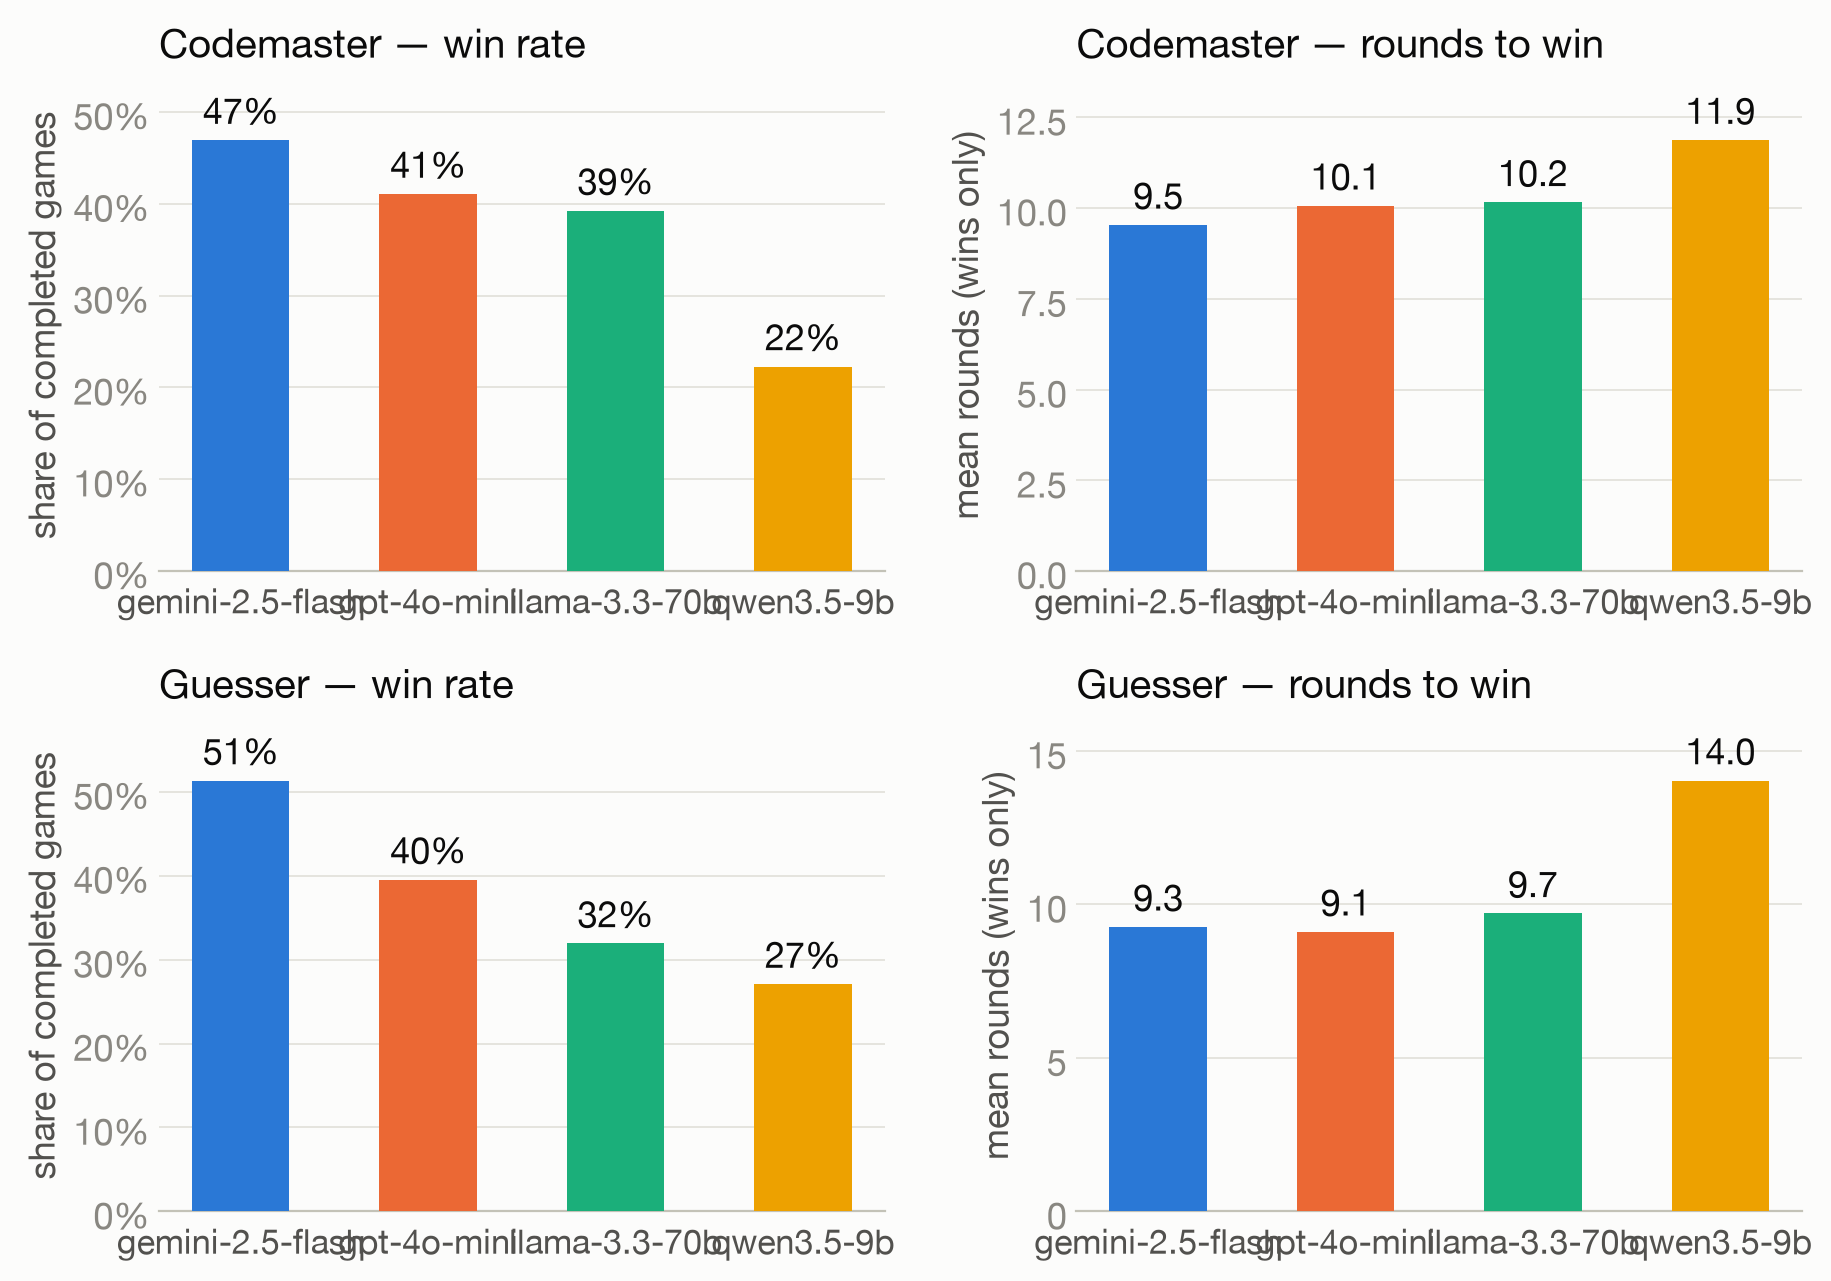
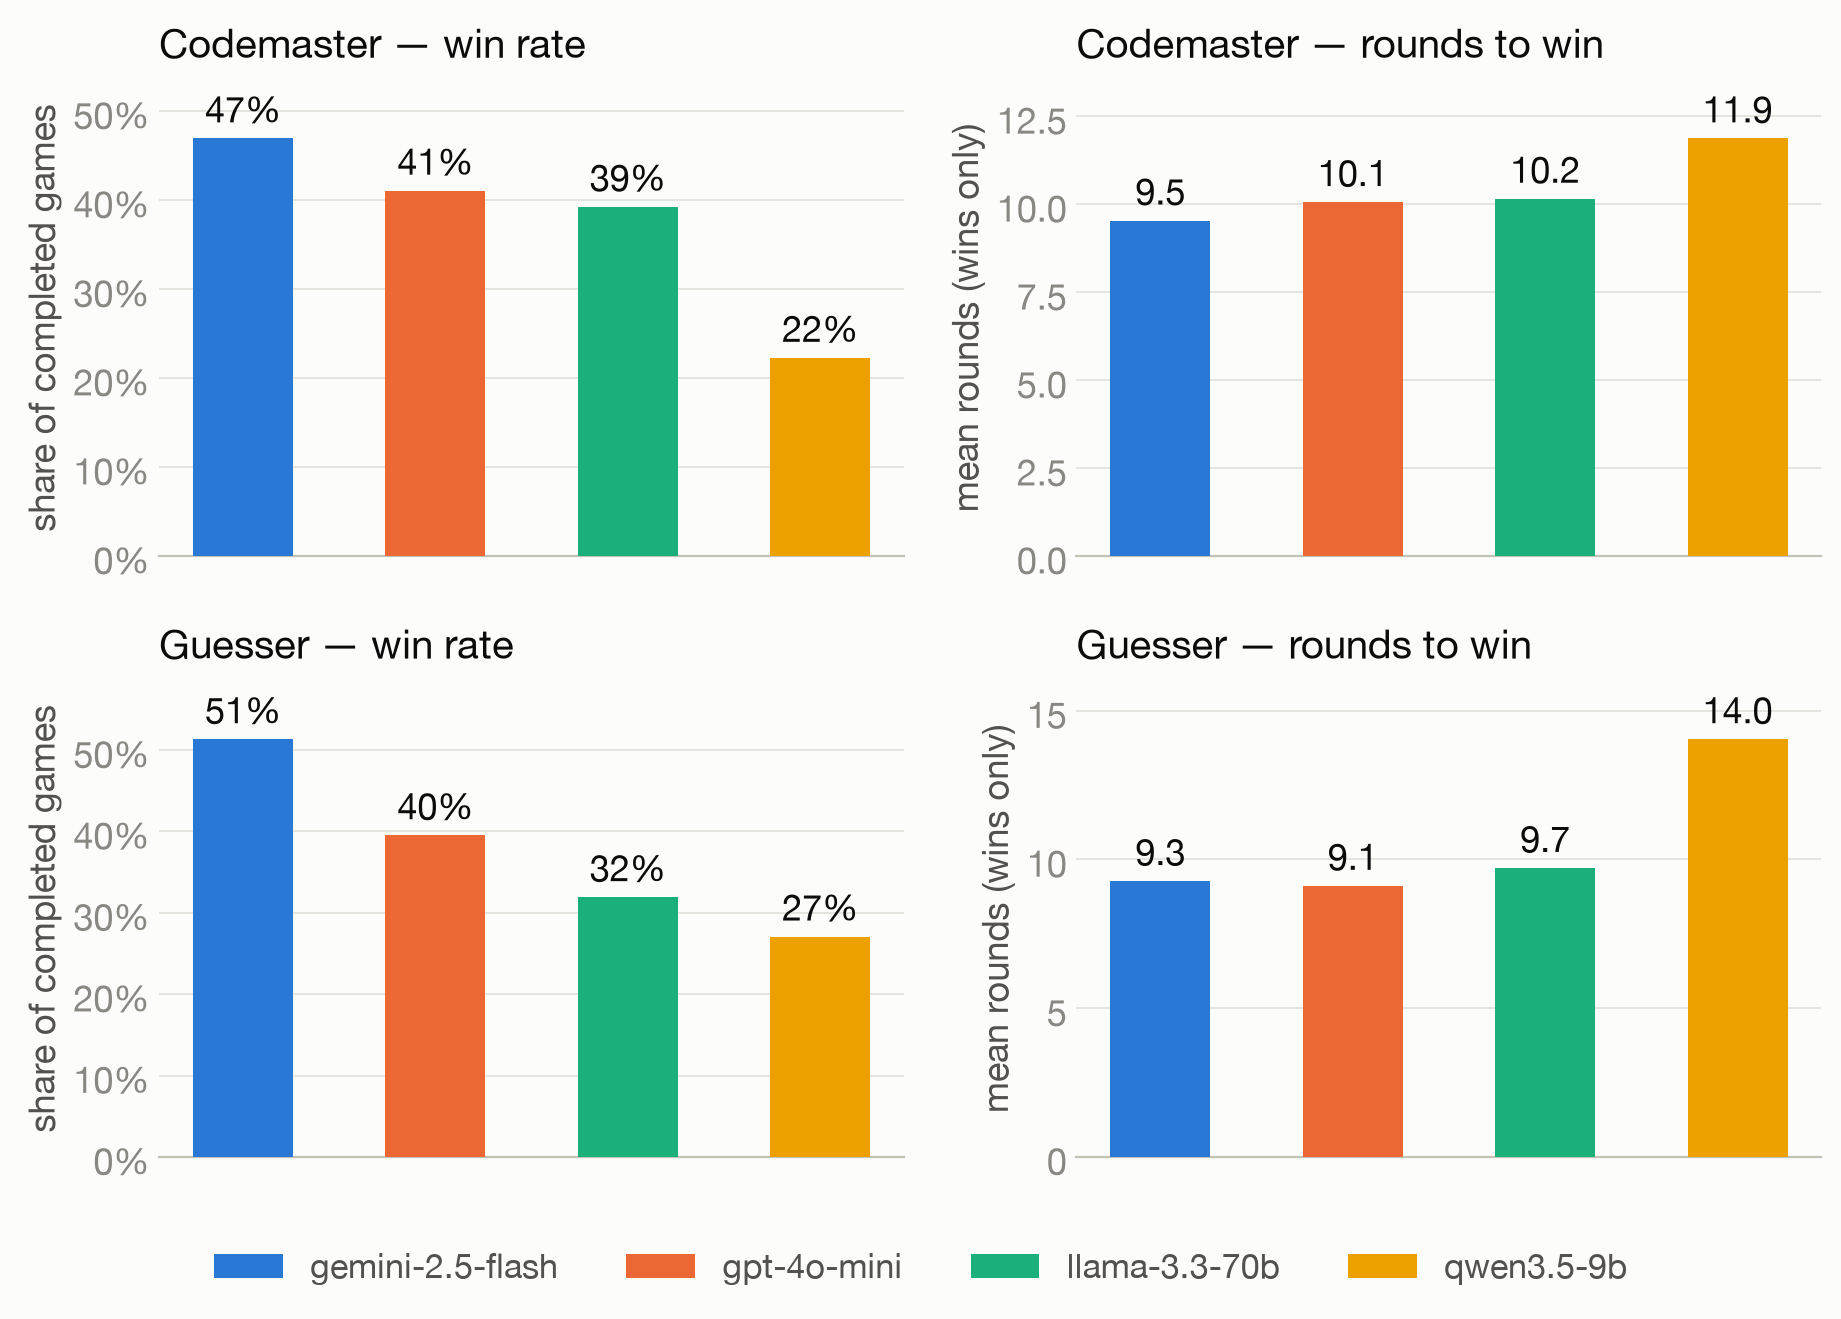
docs(paper): one legend for fig01 instead of names under every column
Four panels each repeating the same four model names under their columns
was noisy and gave the figure nothing the legend cannot. bar_panel gains
show_labels, and the role headline now carries a single figure-level
legend.

The panels also switch from per-panel rank order to a fixed model order.
With no tick labels the colour has to carry identity on its own; a fixed
order means position carries it too, and it removes the trap of the
rounds-to-win panel sorting the opposite way to the win-rate panel
because lower is better there.

Claude-Session: https://claude.ai/code/session_01M282Xge4AXvZBmBRWEKr1V

diff --git a/scripts/paper_figures.py b/scripts/paper_figures.py
@@ -164,14 +164,16 @@ def pct_axis(ax):
     ax.yaxis.set_major_formatter(lambda v, _: f"{v:.0%}")
 
 
-def bar_panel(ax, labels, values, colors, *, fmt="{:.0%}", title="", ylabel="", pad=0.14):
+def bar_panel(ax, labels, values, colors, *, fmt="{:.0%}", title="", ylabel="", pad=0.14,
+              show_labels=True):
     x = np.arange(len(labels))
     ax.bar(x, values, width=0.52, color=colors, zorder=3)
     for xi, v in zip(x, values):
         ax.text(xi, v + max(values) * 0.02, fmt.format(v), ha="center", va="bottom",
                 fontsize=fs(9), color=INK, fontweight="normal")
     ax.set_xticks(x)
-    ax.set_xticklabels(labels, fontsize=fs(8.5), color=INK_2)
+    ax.set_xticklabels(labels if show_labels else [""] * len(labels),
+                       fontsize=fs(8.5), color=INK_2)
     ax.set_ylim(0, max(values) * (1 + pad))
     ax.set_ylabel(ylabel, fontsize=fs(9))
     ax.set_title(title, fontsize=fs(10), color=INK, loc="left", pad=8)
@@ -209,21 +211,31 @@ def grouped_panel(ax, groups, series, colors, *, fmt="{:.0%}", title="", ylabel=
 
 def fig_role_headline(g):
     done = g[g.outcome.isin(["win", "loss"])]
+    wins = done[done.is_win == 1]
+    # A fixed model order in all four panels, with the model named once in the
+    # legend rather than under every column. Colour and position then both
+    # identify the model, and the four panels can be read against each other
+    # without re-reading four sets of tick labels.
+    models = MODEL_ORDER
+    cols = model_colors(models)
     fig, axes = plt.subplots(2, 2, figsize=(5.8, 6.4) if HALF else (9.4, 6.6))
     for row, (key, role) in enumerate([("cm", "Codemaster"), ("gs", "Guesser")]):
-        order = order_by(done, key, "is_win")
-        cols = model_colors(order)
-        wins = done[done.is_win == 1]
-        wr = [done[done[key] == m].is_win.mean() for m in order]
-        ln = [wins[wins[key] == m].game_length.mean() for m in order]
-        bar_panel(axes[row][0], order, wr, [cols[m] for m in order],
+        wr = [done[done[key] == m].is_win.mean() for m in models]
+        ln = [wins[wins[key] == m].game_length.mean() for m in models]
+        bar_panel(axes[row][0], models, wr, [cols[m] for m in models], show_labels=False,
                   title=f"{role} — win rate", ylabel="share of completed games")
-        bar_panel(axes[row][1], order, ln, [cols[m] for m in order], fmt="{:.1f}",
+        bar_panel(axes[row][1], models, ln, [cols[m] for m in models], fmt="{:.1f}",
+                  show_labels=False,
                   title=f"{role} — rounds to win", ylabel="mean rounds (wins only)")
+    handles = [Patch(facecolor=cols[m], label=m) for m in models]
+    fig.legend(handles=handles, loc="lower center", ncol=2 if HALF else len(models),
+               frameon=False, fontsize=fs(8.5), labelcolor=INK_2,
+               bbox_to_anchor=(0.5, -0.012))
     top = titles(fig, "Model performance in each role",
-           "Pooled over every prompt method, clue-count floor, board style and partner model. "
-           "Rounds-to-win counts only games that were won, so it reads as efficiency.")
-    fig.tight_layout(rect=(0, 0, 1, top))
+                 "Pooled over every prompt method, clue-count floor, board style and "
+                 "partner model. Rounds-to-win counts only games that were won, so it "
+                 "reads as efficiency.")
+    fig.tight_layout(rect=(0, 0.10 if HALF else 0.06, 1, top))
     return fig
 
 
